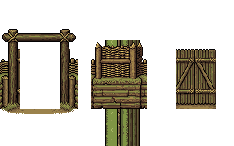
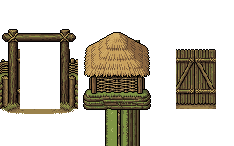
Gatehouses in the high camera too; flank blocks are the new tower bodies
- The tier-2 gatehouse towers lose their stake crowns for the gabled plank
  roofs of the tier-2 wall tower (Pro Flash edit, the new tower as reference).
- The tier-3 gatehouse towers show their crenellated platforms from above.
  That art came in warmer than the curtain and failed gateL3StaysStone, so
  it was desaturated 30% toward the curtain's grey; the face and flank now
  read 82% / 81% stone.
- The north-south flank block of every gate is the new high-camera tower
  body itself, shortened, over the run (scratch flankcomp.cjs). The old
  squashed side-on murals were the "isometric" towers the operator saw in
  a north-south wall. GATE_DRAWN flank numbers were re-measured off the
  new blocks.
- Docs: CLAUDE.md and ART_PLAN.md record the high-camera tower bodies,
  FORT_TOWER / FORT_CREST, the halved bond arms, and why create_image_pro
  was dropped (3/4 towers).
- Temporary pl-inputs/ removed.

Claude-Session: https://claude.ai/code/session_01NT8NhxSDJ2RjRCxMVsqz6T

Changed region(s): [[0.3291, 0.2192, 0.6581, 0.7671]]

diff --git a/js/render.js b/js/render.js
@@ -7305,8 +7305,8 @@ const R = {
     { face: { x0: 11, x1: 21, y0: 13, y1: 30 }, flank: { w: 5.5, e: 24.5, ow: 5.5, oe: 24.5, y0: 17, y1: 26, top: 4 } },
   ],
   GATE_DRAWN: [
-    { flank: { w: -0.5, e: 33, ow: 1.5, oe: 32.5, y0: 13, y1: 24.5, top: -12 } },
-    { flank: { w: 2.5, e: 31.5, ow: 2.5, oe: 31.5, y0: 13, y1: 24.5, top: -11.5 } },
+    { flank: { w: -5, e: 35.2, ow: -3, oe: 34.7, y0: 13, y1: 24.5, top: -17.7 } },
+    { flank: { w: -1.9, e: 32.6, ow: -1.9, oe: 32.6, y0: 13, y1: 24.5, top: -16 } },
   ],
   gateWorksGeo(b, vert) {
     const li = Math.min(b.level, 2) - 1;

diff --git a/CLAUDE.md b/CLAUDE.md
@@ -1680,7 +1680,33 @@ big, everything should be roughly as tall as the stand alone towers"): the
 wall towers and the tier-3 gatehouse are TRIMMED, a band of plain middle
 courses cut out so the crown drops onto the shaft (scratch `trim.cjs`), to
 ~1.35-1.4 tiles foot to crown against the lookout's 1.3-1.4; the curtain
-stays ~0.85, so a wall tower still reads as the strong point of the line —
+stays ~0.85, so a wall tower still reads as the strong point of the line.
+**AND THE TOWERS WEAR THE HIGH CAMERA** (operator, day 20/133: "not clear
+this is a tower… the towers are viewed directly straight, but should be a
+high top down, like the Town Center"; "level 3 towers are also isometric"):
+the wall towers were edits of the straight-on curtain, so a trimmed tier-1
+tower read as a fence panel and the tier-3 one as a turned box. They are now
+edits of the FREE-STANDING Watchtowers themselves (the camera the operator
+approved — front-facing, squared up, seen from high above) with the mound,
+stairs and door taken off and the walls carried to the ground: a wattle
+lookout under a thatch hip roof on a turf rampart, an oak blockhouse under a
+gabled plank roof, an ashlar tower whose crenellated top you look DOWN into.
+Twenty plain rows were cut from each middle to keep the height.
+`assets/fort/tower-l{lv}.png` is the BODY ALONE, cropped to the drawing, and
+draws at its own density (`Assets.FORT_TOWER`: 65 px a tile, foot 0.2 tiles
+up — the curtain's foot line) through `_fortBody`, never through the
+FORT_GEO frame. Because that body is narrower than the corner/T frames'
+bastion, `drawTowerBond` cuts each arm from a STRAIGHT run halved at the
+crossing (`Assets.FORT_CREST`, the arms' meeting row per tier) instead of
+drawing the junction frame — or the bastion peeks out round the tower's
+foot. The gatehouses follow: the tier-2 gate towers carry the same plank
+roofs, the tier-3 gate towers show their platforms from above (desaturated
+toward the curtain's grey — the warm edit failed `gateL3StaysStone`), and
+the north-south FLANK block is the new tower body itself, shortened, over
+the run (scratch `flankcomp.cjs`; `GATE_DRAWN` flank numbers re-measured
+off it). Every edit started from a front-facing source: a fresh
+`create_image_pro` tower came back corner-on (3/4) every time, which reads
+as a rotated box in a squared wall —
 drawn through `blitBld`'s
 `_cfArt` anchor like every other PNG — so the curtain overhangs its tile
 and a gatehouse's towers stand astride the sections next door. **Three

diff --git a/ART_PLAN.md b/ART_PLAN.md
@@ -416,6 +416,16 @@ door — so an open gate is transparent; re-cut both if a face is redrawn.
 The wall towers (and the tier-3 gatehouse) are then TRIMMED by `trim.cjs` —
 plain middle courses dropped, crown slid down onto the shaft — so nothing in
 the line stands taller than the free-standing Watchtower.
+Then the operator asked for the high camera, and the wall-tower bodies were
+remade as EDITS OF THE FREE-STANDING TOWERS (`edit_image_pro_flash` on
+`assets/buildings/tower-l{n}.png`, padded to a multiple of 4: "remove the
+mound, the stairs and the door; walls straight down to the ground"), 20
+middle rows cut, installed as the body alone at 65 px a tile. Do NOT try
+`create_image_pro` for a squared-up tower: with the Town Center as the
+camera reference it returned 3/4 corner-on towers in every one of the 36 candidates checked (of 48).
+The gatehouse faces were edited for roofs/tops with the new tower as the
+reference; the flank blocks are composed from the new bodies
+(`flankcomp.cjs`).
 
 **THE DENSITY CEILING IS THE SLOT, AND FOR A GATE IT WAS 2×.** (History: the drawn wall kit replaced the 64px gate slot with `Assets.FORT_GEO`'s 58px-a-tile canvas (44px at first), which the anchoring rule resamples like any building PNG.) A building PNG
 goes through `R.artRect` and is resampled at every zoom, so a 4× master there
